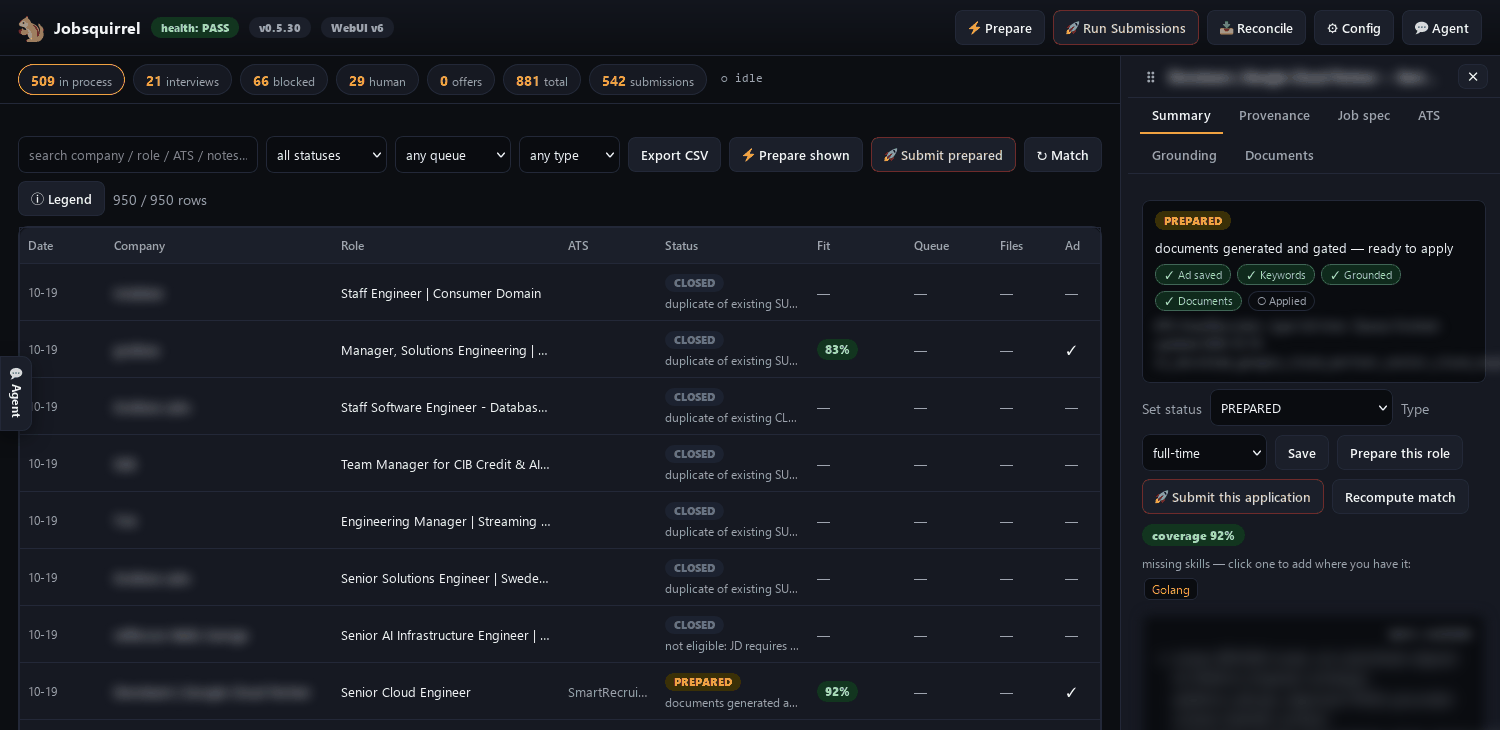
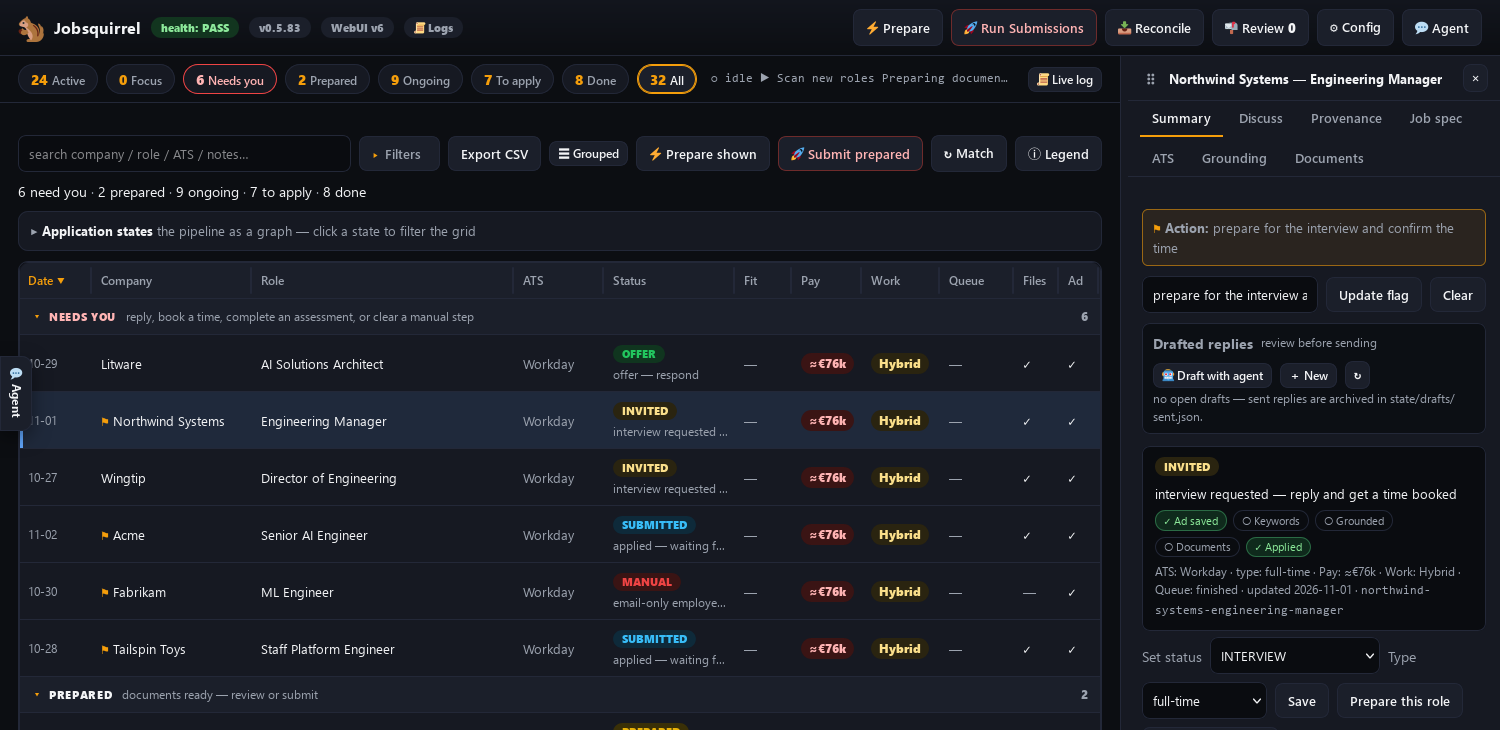
Refresh dashboard screenshots with demo data
Replace the old shots with current ones from a demo profile (sample
candidate, fictional companies) and add the pipeline graph, context
menu and backup/restore. Drop the stale evidence shot that showed real
CV wording.

diff --git a/README.md b/README.md
@@ -57,24 +57,32 @@ keep it cheap with opencode + DeepSeek Flash, and **what it costs to run**.
 ## Screenshots
 
 A local, single-page dashboard over the whole pipeline. Every action is
-auditable, and nothing is sent without the gates passing. (Company names are
-blurred in these shots.)
+auditable, and nothing is sent without the gates passing. (The screenshots use
+demo data: a sample candidate and fictional companies.)
 
 | The grid — every role, its stage and its fit | Role drawer — pipeline stage, gates, type, one-click action |
 |---|---|
 | ![Application grid](docs/screenshots/grid.png) | ![Role detail drawer](docs/screenshots/drawer.png) |
 
-| Documents — the rendered, gated CV in place | Agent console — chat and live activity |
-|---|---|
-| ![Documents tab with the embedded CV](docs/screenshots/documents.png) | ![Agent console](docs/screenshots/agent.png) |
-
-| Evidence overlay — every CV line scored against the job's requirements and the knowledge base |
+| The pipeline as a graph — click a state to filter the grid |
 |---|
-| ![Evidence overlay: green lines are backed by the knowledge base, amber lines name a requirement it cannot confirm](docs/screenshots/evidence.png) |
+| ![Application states graph with a count for every stage](docs/screenshots/pipeline.png) |
 
-| Legend — what every status and queue state means | Settings — accounts, knowledge base, agent permissions |
+| Context menu — actions that fit the role's current state | Agent console — chat, delegated work and live activity |
 |---|---|
-| ![Status and queue legend](docs/screenshots/legend.png) | ![Settings](docs/screenshots/settings.png) |
+| ![Right-click context menu on a role](docs/screenshots/context-menu.png) | ![Agent console with chat and activity](docs/screenshots/agent.png) |
+
+| Documents — the rendered, gated CV in place | Evidence overlay — every CV line scored against the ad and the knowledge base |
+|---|---|
+| ![Documents tab with the embedded CV](docs/screenshots/documents.png) | ![Evidence overlay: green lines are backed by the knowledge base, amber lines name a requirement it cannot confirm](docs/screenshots/evidence.png) |
+
+| Settings — model, accounts and permissions | Backup & restore — what is saved, and a safe restore |
+|---|---|
+| ![Settings](docs/screenshots/settings.png) | ![Backup and restore](docs/screenshots/backup.png) |
+
+| Legend — what every status, mark and queue state means |
+|---|
+| ![Status and queue legend](docs/screenshots/legend.png) |
 
 ---
 
